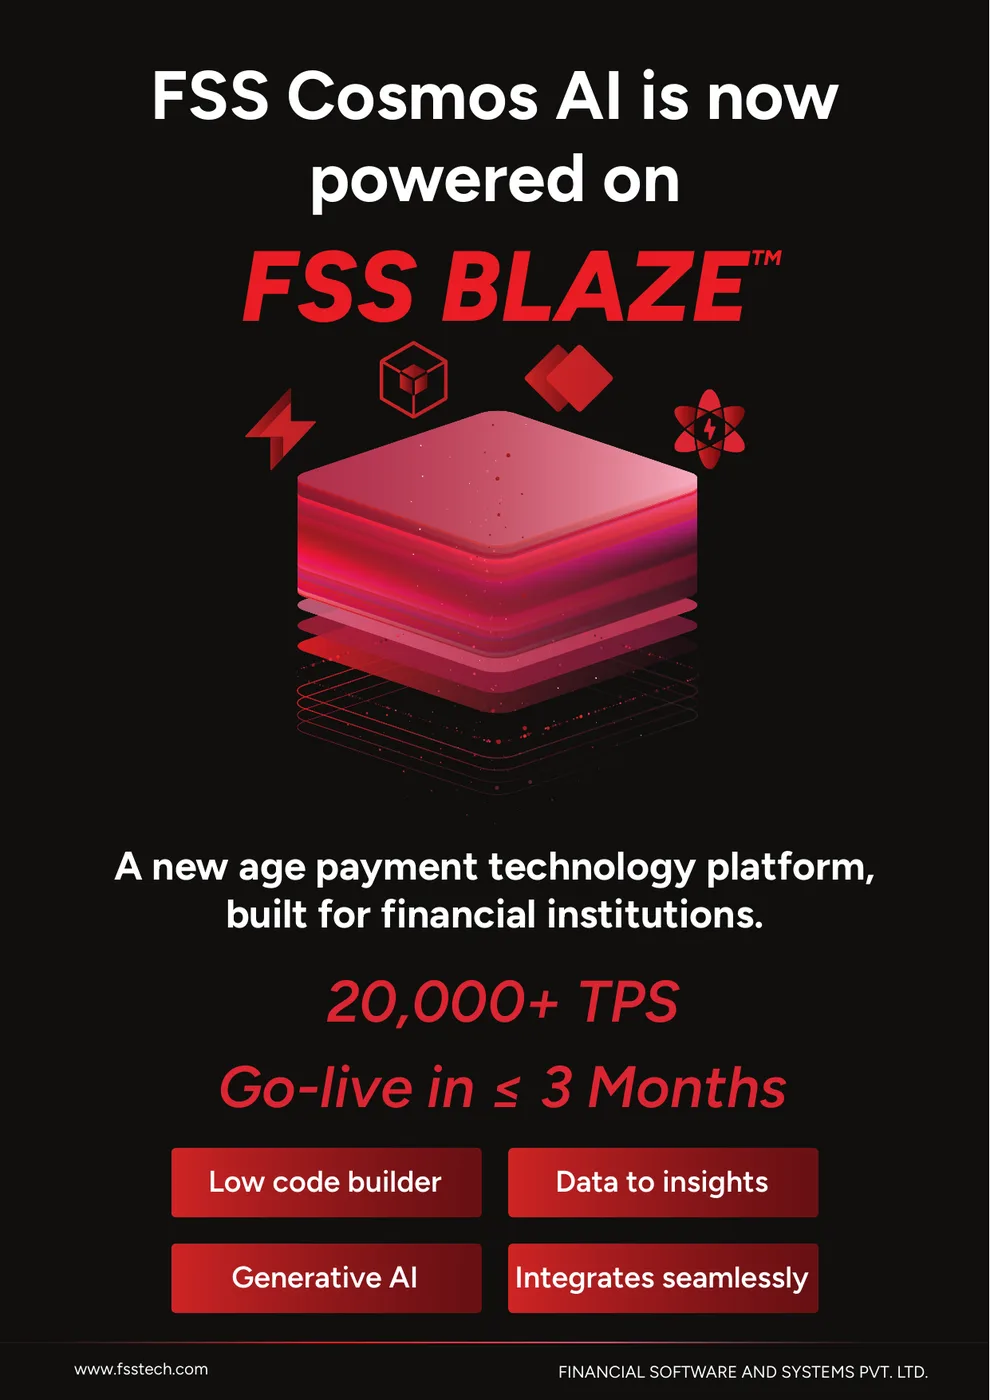
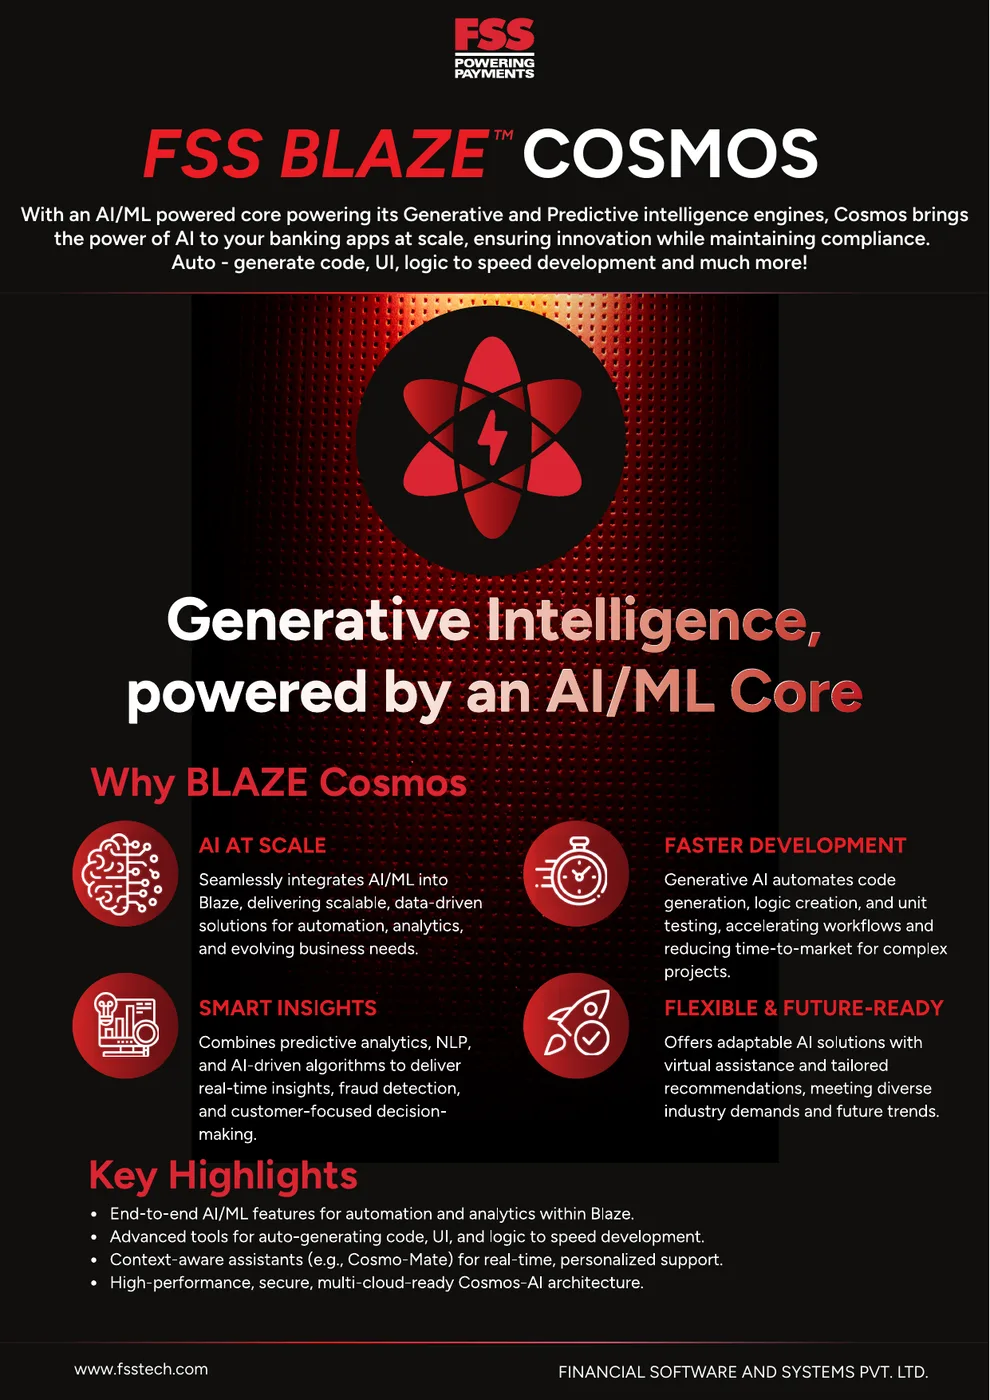
Replace Cosmos one-pager with proper product flyer

diff --git a/src/pages/BlazePlatform.tsx b/src/pages/BlazePlatform.tsx
@@ -65,7 +65,7 @@ export default function BlazePlatform() {
           },
           {
             src: "/blaze-onepager-cosmos.webp",
-            alt: "FSS Cosmos AI now powered on FSS BLAZE one pager.",
+            alt: "FSS BLAZE Cosmos one pager: generative intelligence powered by an AI and ML core, with AI at scale, smart insights, faster development, and flexible future-ready solutions.",
             caption: "Cosmos",
           },
           {